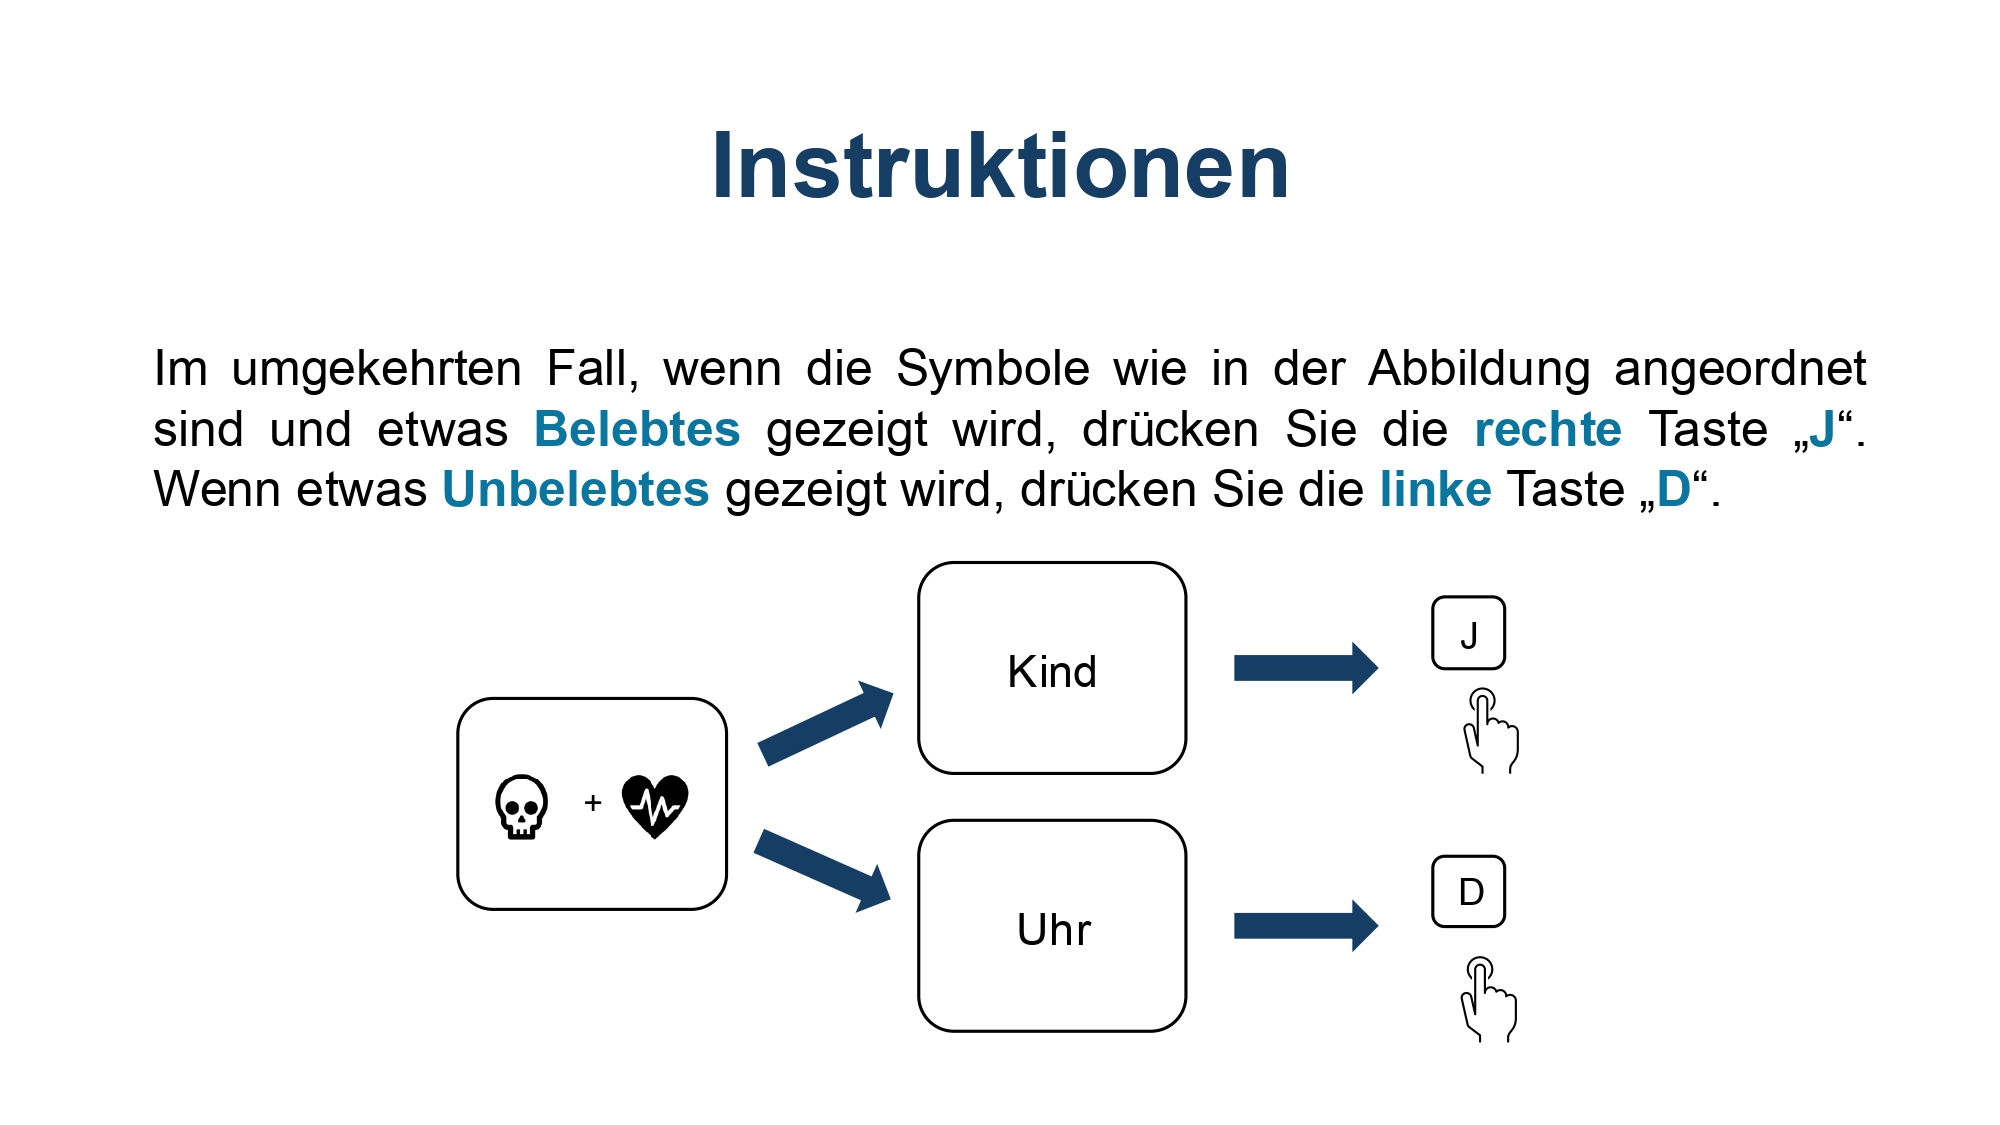
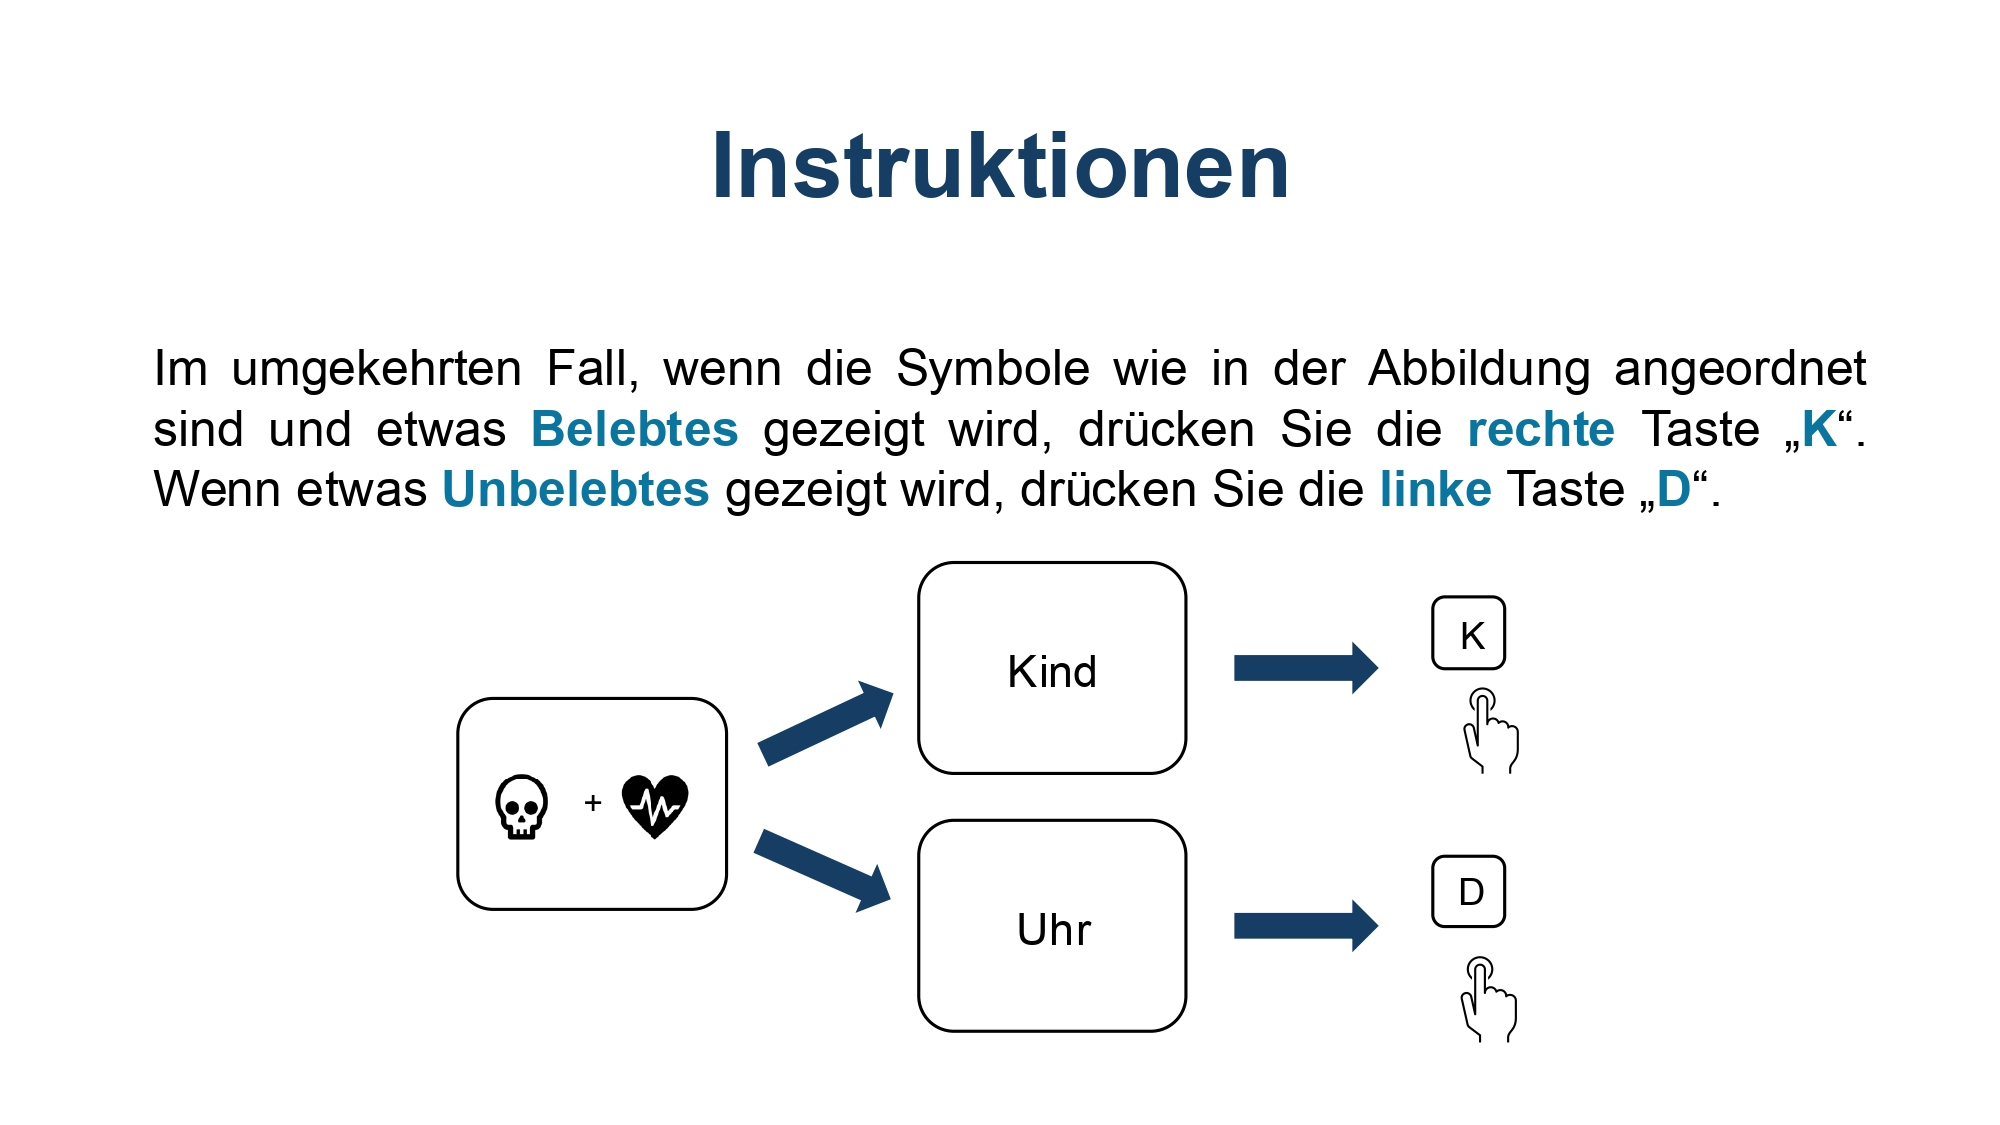
adapted instrcutions to response keys D & K - word changing SR

Changed region(s): [[0.186, 0.3422, 0.93, 0.4044], [0.713, 0.56, 0.744, 0.5911]]

diff --git a/tasks/word-judgement-changingSR/src/settings.ts b/tasks/word-judgement-changingSR/src/settings.ts
@@ -16,7 +16,7 @@ export const expInfo = {
   TITLE: "Word Processing Speed Task", // the title of the experiment
   LANG: "de", // the default language of the experiment
 
-  USE_RESPONSEBOX: true, // whether the response box is used in the lab
+  USE_RESPONSEBOX: false, // whether the response box is used in the lab
 
   // design of the experiment
   DESIGN:{
